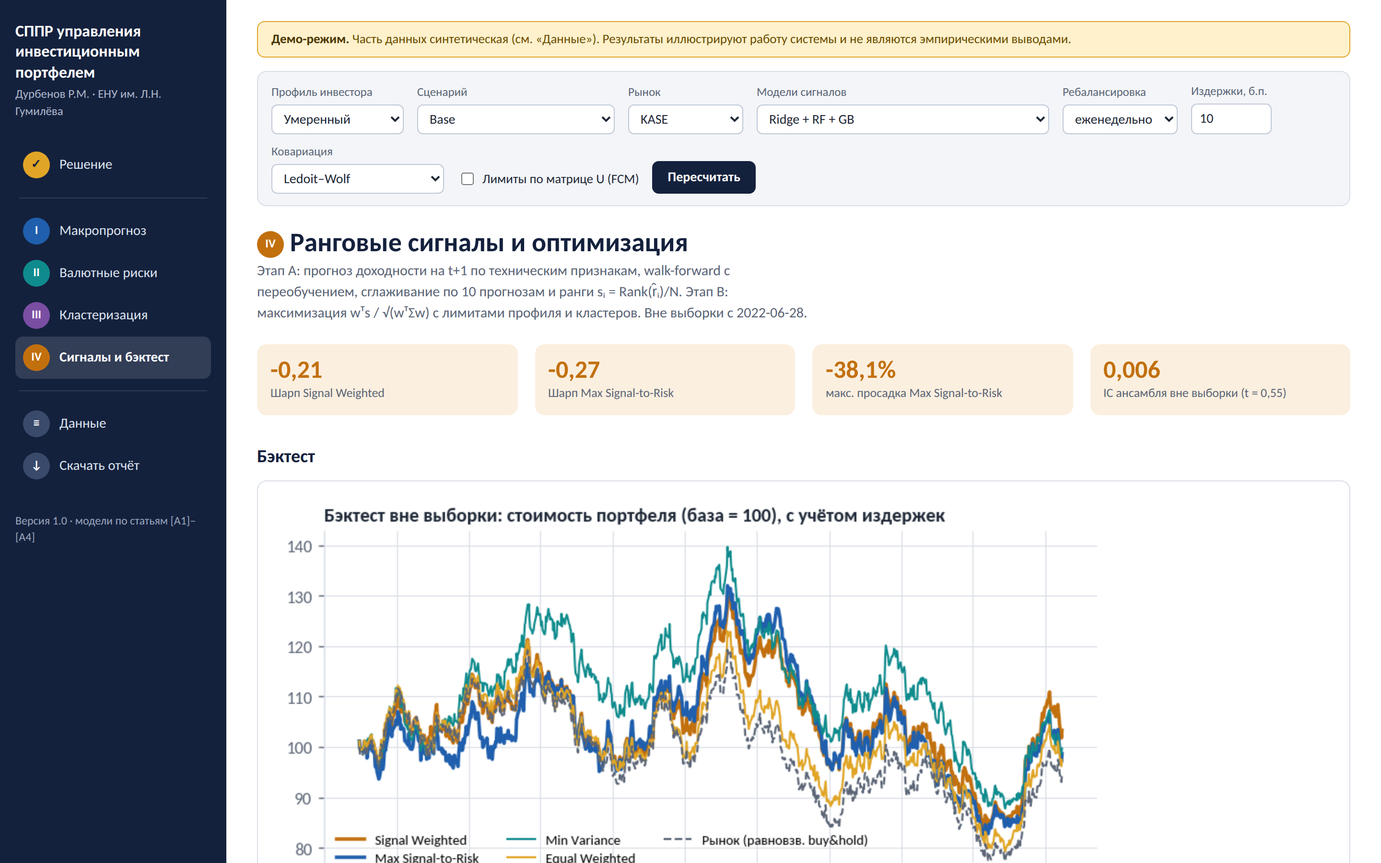
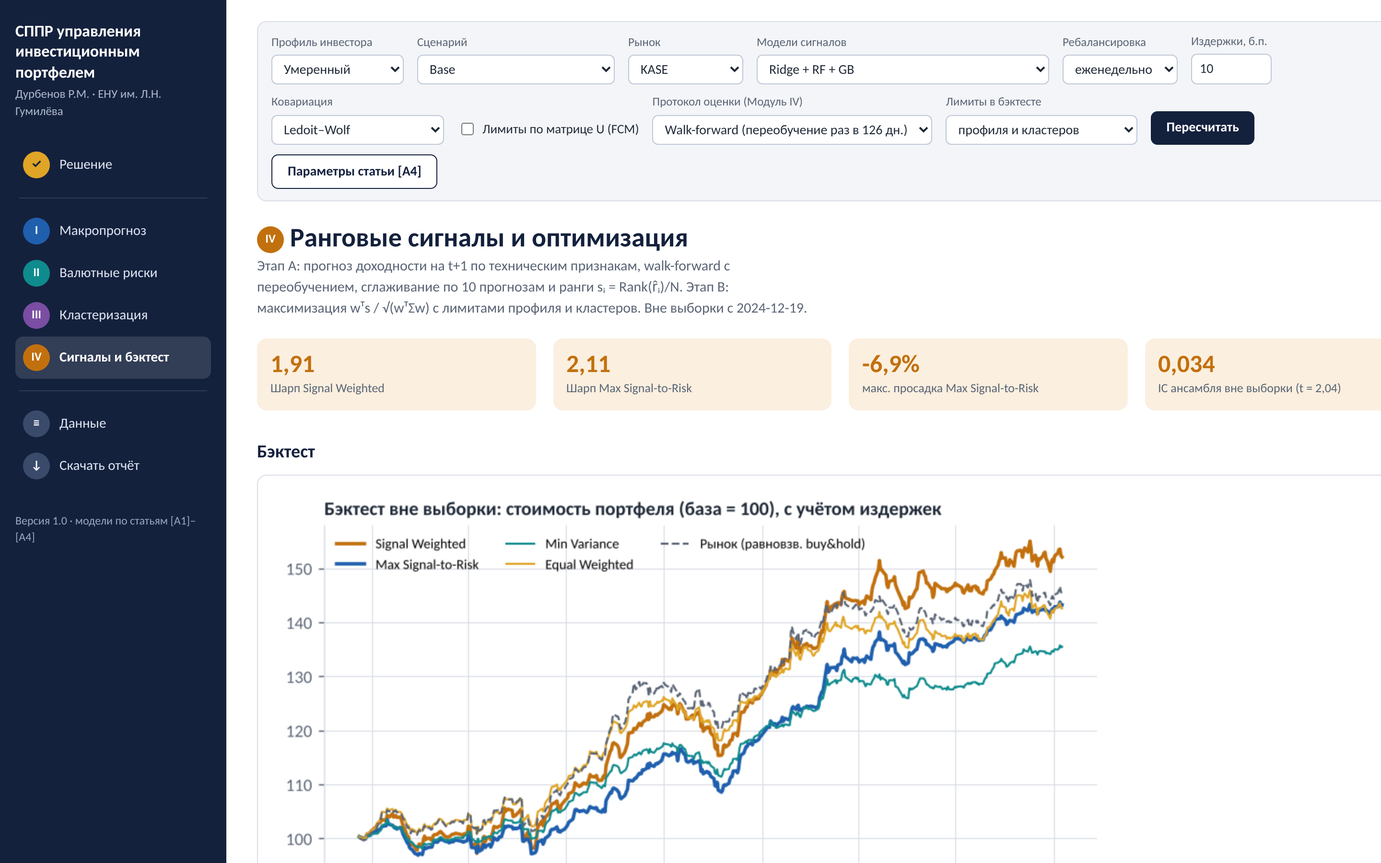
Stage 3, phase C: documentation and real-data screenshots
- docs/progress.md: stage 2 done (with data caveats), stage 3 done per
  article, updated requirement statuses, checklist, test count (57),
  CI diagnosis with the steps the author has to take; outdated
  statements removed.
- README: docs/reproduction.md, scripts/reproduce.py, docs/results/.
- Screenshots retaken on real data: KASE in docs/screenshots/, NSE in
  docs/screenshots/nse/; make_screenshots.py accepts --chromium to use
  an already installed browser.

diff --git a/scripts/make_screenshots.py b/scripts/make_screenshots.py
@@ -3,6 +3,7 @@
 1) start the app:   python -m webapp.app
 2) run:             python scripts/make_screenshots.py [--out docs/screenshots]
 Requires: pip install playwright && playwright install chromium
+(or pass --chromium /path/to/chrome to use an already installed browser)
 """
 import argparse
 from pathlib import Path
@@ -15,12 +16,13 @@ PAGES = {"decision": "/", "macro": "/macro", "fx": "/fx", "clusters": "/clusters
 ap = argparse.ArgumentParser()
 ap.add_argument("--base", default="http://127.0.0.1:8050")
 ap.add_argument("--out", default="docs/screenshots")
-ap.add_argument("--query", default="", help="e.g. profile=conservative&scenario=stress")
+ap.add_argument("--query", default="", help="e.g. profile=conservative&scenario=stress or universe=nse")
+ap.add_argument("--chromium", default=None, help="path to an installed Chromium instead of Playwright's own")
 a = ap.parse_args()
 out = Path(a.out)
 out.mkdir(parents=True, exist_ok=True)
 with sync_playwright() as p:
-    b = p.chromium.launch()
+    b = p.chromium.launch(executable_path=a.chromium)
     pg = b.new_page(viewport={"width": 1440, "height": 900}, device_scale_factor=2)
     for name, path in PAGES.items():
         pg.goto(f"{a.base}{path}?{a.query}", timeout=300_000)

diff --git a/docs/progress.md b/docs/progress.md
@@ -1,26 +1,26 @@
 # Состояние работ по ТЗ
 
-Сводка соответствия репозитория техническому заданию [`docs/techspecs.md`](techspecs.md) (версия от 08.10.2026). Обновлено 10.10.2026 (этап 4, часть 2).
+Сводка соответствия репозитория техническому заданию [`docs/techspecs.md`](techspecs.md) (версия от 08.10.2026). Обновлено 11.10.2026 (этап 3 — воспроизведение статей; доработки этапа 4).
 
-Обозначения: ✅ реализовано · 🟡 частично · ⬜ не начато · 🆕 сделано на текущем этапе (этап 4, часть 2).
+Обозначения: ✅ реализовано · 🟡 частично · ⬜ не начато · 🆕 сделано на текущем этапе (этап 3 и доработки этапа 4, 11.10.2026).
 
 ## Кратко
 
 - **Код всех четырёх модулей, модуль интеграции, веб-интерфейс, CLI и HTML-отчёт** есть (v1.0); почти все функциональные требования разделов 6–10 со статусом «Реализовано» в ТЗ подтверждаются кодом.
 - **Этап 1 (публикация и CI)** закрыт со стороны кода и влит в `main` (programmankz/phd-dss#1): CI, lock-файл, проверка CSV, установка на Windows/macOS. **Но GitHub Actions не запускается:** все прогоны завершаются `startup_failure` до старта задач (0 jobs), хотя файл workflow корректен (проверено `actionlint`). Причина — в настройках репозитория или аккаунта, а не в коде (см. «Риски»).
-- **Этап 2 (реальные данные) из облачной среды выполнить нельзя:** политика сети блокирует `www.imf.org`, `nationalbank.kz`, `query1.finance.yahoo.com` и `kase.kz` (HTTP 403 прокси). Загрузку нужно выполнить локально или расширить доступ в настройках среды.
-- **Поэтому сделана независимая от данных часть этапа 4:** коэффициенты правил интеграции перенесены в `config.py`, добавлен анализ их чувствительности и монотонности (раздел 10, пункт чек-листа), предупреждение о неудачной оптимизации (НФТ-06) и о послаблении нечётких лимитов, статистическая значимость ФТ-IV-13 (бутстреп Шарпа, Diebold–Mariano).
-- 🆕 **Этап 4, часть 2:** режим оценки «как в статье» (ФТ-IV-04: одно разбиение 80/20) и кнопка «Параметры статьи [A4]» (вместе с выборочной ковариацией, ежедневной ребалансировкой, без издержек и лимитов) — для пункта чек-листа «бэктест NSE в режиме статьи и walk-forward»; смена профиля или сценария теперь ≈ 0,2 с вместо ≈ 9 с (НФТ-03 выполнено). Тестов 42.
+- **Этап 2 (реальные данные) выполнен** локально и закоммичен в `data/`: ВВП (World Bank WDI, 214 стран, 1980–2024), курсы НБ РК (2000 – 10.2026), 20 акций NSE (2020 – 10.2026), 9 акций KASE (общая история с 12.2022). `warmup` для KASE и NSE показывает только «CSV: …». Оговорки: цены KASE без дивидендов; непроверенное падение KZTK на 41 % 22–23.05.2025; ВВП — World Bank, а не IMF WEO статьи [A1]; P/B и P/E для KASE пусты. Из облачной среды загрузка по-прежнему невозможна (сеть блокирует источники).
+- 🆕 **Этап 3 (воспроизведение статей) выполнен:** `python scripts/reproduce.py` пересчитывает все сравнения и пишет [`docs/reproduction.md`](reproduction.md) и `docs/results/*.csv`. [A2] воспроизведена (R² совпадают до второго знака); [A1] — результаты СППР ближе к рис. 9 и 11, чем к 97,9 % / AUC 0,997, а такую точность даёт утечка года t в скользящие признаки; [A3] — табл. 2 заполнена на KASE (с KZTK, без KZTK, без KMGZ); [A4] — строка табл. IV (21,61 % / 0,95) не воспроизведена (период теста и отсутствие предсказательной силы прогнозов). Расхождения — пп. 9–12 в `docs/methodology.md`.
+- 🆕 **Доработки этапа 4:** корпоративные события как данные (`data/corporate_actions.csv`), автотест НФТ-01, русский формат чисел в отчёте, консоли и на графиках, безрисковая ставка по набору данных (для KASE — заглушка до получения ставки НБ РК), проверка глубоких моделей TensorFlow (ФТ-IV-03). Тестов 57.
 
 ## Этапы работ (раздел 14)
 
 | Этап | Статус | Комментарий |
 |---|---|---|
 | 1. Публикация кода и CI | 🟡 | Прогоны GitHub Actions завершаются `startup_failure` (см. «Риски»). Код в GitHub; `.github/workflows/ci.yml`: ruff и pytest на Linux, Windows, macOS (Python 3.12, lock-файл) и Python 3.10 (диапазоны); `requirements-lock.txt`; README: установка на Windows/macOS |
-| 2. Реальные данные | 🟡 | Команды `fetch gdp/fx/nse` есть; проверка форматов и понятные сообщения об ошибках. Данные не загружены, котировки KASE не выгружены |
-| 3. Воспроизведение статей A1–A4 | ⬜ | Зависит от этапа 2 |
-| 4. Доработки по ТЗ | 🟡 | Сделано: ФТ-IV-13, коэффициенты интеграции в `config.py` и их анализ чувствительности, 🆕 режим статьи ФТ-IV-04, 🆕 НФТ-03. Осталось: пересчёт в KZT, индексы, PDF/Excel, проверка LSTM |
-| 5. Подготовка к защите | ⬜ | Скриншоты в `docs/screenshots/` сняты в демо-режиме |
+| 2. Реальные данные | ✅ | Данные в `data/` (см. «Кратко» и оговорки в [`docs/reproduction.md`](reproduction.md#оговорки-по-данным)); P/B и P/E для KASE не заполнены |
+| 3. Воспроизведение статей A1–A4 | ✅ 🆕 | [`docs/reproduction.md`](reproduction.md): [A2] воспроизведена; [A1] согласуется с рис. 9/11, текст не воспроизводится (нужен `world_gdp_data.csv`); [A3] — табл. 2 заполнена; [A4] — табл. IV не воспроизведена, причины объяснены. Вопросы к автору — в конце отчёта |
+| 4. Доработки по ТЗ | 🟡 | Сделано: ФТ-IV-13, коэффициенты интеграции и их чувствительность, режим статьи ФТ-IV-04, НФТ-03, 🆕 ФТ-IV-03 (TensorFlow), 🆕 НФТ-01 (автотест), 🆕 корпоративные события, 🆕 русский формат чисел, 🆕 ставка по набору данных. Осталось: пересчёт в KZT, индексы, PDF/Excel, значение ставки НБ РК |
+| 5. Подготовка к защите | 🟡 | 🆕 Скриншоты пересняты на реальных данных: KASE — `docs/screenshots/`, NSE — `docs/screenshots/nse/` |
 
 ## Функциональные требования
 
@@ -37,7 +37,7 @@
 
 | ID | Статус | Что осталось |
 |---|---|---|
-| ФТ-II-01…06, 08, 09 | ✅ | ФТ-II-05: выявление шоков 2009/2014/2015 проверить на реальных курсах |
+| ФТ-II-01…06, 08, 09 | ✅ | 🆕 ФТ-II-05 проверено на курсах НБ РК: найдены шоки 2009, 2014, 2015 (и 2020, 2022) |
 | ФТ-II-07 Ожидаемое ослабление | 🟡 | Форвардные курсы / ставки — «рассмотреть» |
 | ФТ-II-10 Пересчёт доходности в KZT | ⬜ | Не реализовано |
 
@@ -46,17 +46,17 @@
 | ID | Статус | Что осталось |
 |---|---|---|
 | ФТ-III-01…09 | ✅ | — |
-| ФТ-III-10 Табл. 2 на KASE | ⬜ | Нужны котировки KASE |
+| ФТ-III-10 Табл. 2 на KASE | ✅ 🆕 | [`docs/reproduction.md`](reproduction.md#a3-модуль-iii--кластеризация-бумаг-kase-табл-2); перенести в диссертацию и на слайд 22 |
 
 ### Модуль IV — сигналы и оптимизация [A4] (`dss/signals.py`, `dss/portfolio.py`)
 
 | ID | Статус | Что осталось |
 |---|---|---|
 | ФТ-IV-01, 02, 05–09, 11 | ✅ | — |
-| ФТ-IV-03 Прогнозные модели | 🟡 | RNN / LSTM / CNN-LSTM / LSTM-MLP не проверены с TensorFlow |
+| ФТ-IV-03 Прогнозные модели | ✅ 🆕 | TensorFlow 2.21: RNN, LSTM, CNN-LSTM, LSTM-MLP обучаются без ошибок (`python scripts/reproduce.py --with-dl`, `docs/results/a4_dl_check.csv`) |
 | ФТ-IV-04 Протокол оценки | ✅ 🆕 | `config.PROTOCOLS`: walk-forward (50% + переобучение раз в 126 дн.) или «как в статье» (одно разбиение 80/20); переключатель в панели настроек и `--protocol`; кнопка «Параметры статьи [A4]» (`config.PAPER_PRESET`) и `--no-caps` — бэктест без лимитов, 0 ≤ w ≤ 1 |
 | ФТ-IV-10 Стратегии | 🟡 | Загрузка индекса (Nifty 50, KASE Index) |
-| ФТ-IV-12 Показатели | 🟡 | Ставка НБ РК как безрисковая для KASE |
+| ФТ-IV-12 Показатели | 🟡 🆕 | `config.RISK_FREE_BY_UNIVERSE`: NSE — 5 %, KASE — заглушка (ставки НБ РК с источником в репозитории нет), временно 5 %, помечено в интерфейсе, отчёте и CLI. Нужно значение от автора |
 | ФТ-IV-13 Статистическая значимость | ✅ | `dss/significance.py`: 95% ДИ Шарпа и разницы с Equal Weighted (кольцевой блочный бутстреп, 2000 повторов, парные выборки), тест Diebold–Mariano против наивного прогноза; экран «Сигналы», отчёт, `dss.cli significance` |
 
 ### Модуль интеграции (`dss/integration.py`)
@@ -74,7 +74,7 @@
 |---|---|---|
 | 6 экранов, панель настроек в адресной строке | ✅ | |
 | Плашка «Демо-режим», цвета модулей, вёрстка до 760 px, видимый фокус | ✅ | Контраст WCAG AA формально не проверялся |
-| Числа в русском формате | 🟡 | Веб — да; HTML-отчёт и консоль выводят десятичную точку |
+| Числа в русском формате | ✅ 🆕 | Веб, HTML-отчёт, тексты шагов решения, подписи графиков и консоль — десятичная запятая (`dss/numfmt.py`); CSV-выгрузки — с точкой |
 | Ошибки текстом с причиной и действием | ✅ | Ошибки CSV — на каждом экране, на «Данных», в отчёте и CLI; непредвиденный сбой — страница с причиной и действием вместо «500» |
 | CLI: fetch, warmup, decide, report, serve, параметры | ✅ | `serve` без параметров (хост/порт через `HOST`/`PORT`) |
 | Экспорт отчёта в PDF и Excel | ⬜ | |
@@ -83,7 +83,7 @@
 
 | ID | Статус | Комментарий |
 |---|---|---|
-| НФТ-01 Воспроизводимость | 🟡 | seed 42; `requirements-lock.txt`. Автотеста «повторный запуск = те же числа до 4-го знака» нет |
+| НФТ-01 Воспроизводимость | ✅ 🆕 | seed 42; `requirements-lock.txt`; тест `test_two_cold_runs_give_identical_numbers` (два холодных запуска — те же веса, Шарпы и метки кластеров до 4-го знака); повторный `scripts/reproduce.py` даёт побайтно тот же результат |
 | НФТ-02 Без заглядывания вперёд | ✅ | Тесты `test_features_use_only_past_values`, `test_backtest_is_out_of_sample` |
 | НФТ-03 Производительность | ✅ 🆕 | Холодный расчёт на демо ≈ 30 с (≤ 2 мин); экран из кэша ≈ 1 с; 🆕 смена профиля или сценария ≈ 0,2 с: бэктест считается только при открытии экрана «Сигналы» или отчёта (там смена профиля ≈ 11 с, потому что бэктест зависит от лимитов профиля) |
 | НФТ-04 Кэш по отпечатку | ✅ | |
@@ -100,38 +100,44 @@
 |---|---|
 | 13 тестов научных инвариантов (`tests/test_core.py`) | ✅ |
 | Интеграционный тест полного конвейера на демо-наборе (≤ 60 с) | ✅ `test_system.py` (≈ 35 с) |
-| Тест загрузчиков CSV на ошибочные файлы | ✅ `test_loaders.py` (13 тестов) |
+| Тест загрузчиков CSV на ошибочные файлы | ✅ `test_loaders.py` (18 тестов, 🆕 включая `corporate_actions.csv`) |
 | Тест веб-экранов (код 200 для всех страниц) | ✅ |
-| Проверка глубоких моделей при установленном TensorFlow | ⬜ |
-| Правила интеграции, оптимизатор, тесты значимости (`test_analysis.py`) | ✅ 8 тестов |
+| Проверка глубоких моделей при установленном TensorFlow | ✅ 🆕 вручную (`--with-dl`); в CI TensorFlow не ставится |
+| Правила интеграции, оптимизатор, тесты значимости (`test_analysis.py`) | ✅ 9 тестов (🆕 ставка по набору данных) |
+| 🆕 Скрипт воспроизведения и формат чисел (`test_reproduce.py`) | ✅ 7 тестов (на демо-данных) |
 | CI: GitHub Actions — зависимости, тесты, ruff | 🟡 | Workflow есть и корректен, но прогоны завершаются `startup_failure` |
 
 ## Чек-лист приёмки
 
 - [x] Код отправлен в github.com/programmankz/phd-dss
-- [ ] Все автотесты проходят локально и в GitHub Actions — локально ✅ (42 теста, Python 3.10 и 3.13); в Actions — `startup_failure`, нужна проверка настроек
-- [ ] Загружены реальные данные IMF, НБ РК, KASE, NSE; плашка «Демо-режим» не отображается
-- [ ] Модуль II воспроизводит табл. 1 и R² [A2]
-- [ ] Модуль I на world_gdp_data.csv: метрики классификации и регрессии задокументированы
-- [ ] Модуль III: табл. 2 [A3] рассчитана на KASE
-- [ ] Модуль IV: бэктест NSE в режиме статьи и walk-forward; сравнение с табл. IV [A4]
-- [ ] Скриншоты пересняты на реальных данных
-- [ ] README, docs/methodology.md и руководство пользователя актуальны — README и methodology обновляются; отдельного руководства пользователя нет
+- [ ] Все автотесты проходят локально и в GitHub Actions — локально ✅ (57 тестов, Python 3.13); в Actions — `startup_failure`, нужны действия автора (см. «Риски», п. 1)
+- [x] Загружены реальные данные (World Bank вместо IMF, НБ РК, KASE, NSE); плашка «Демо-режим» не отображается
+- [x] Модуль II воспроизводит R² [A2] (табл. 1 рассчитана; опубликованных значений для сравнения в репозитории нет)
+- [ ] Модуль I на world_gdp_data.csv: метрики классификации и регрессии задокументированы — 🟡 сделано на данных World Bank; файл статьи нужен от автора
+- [x] Модуль III: табл. 2 [A3] рассчитана на KASE (перенос в диссертацию и на слайд 22 — за автором)
+- [x] Модуль IV: бэктест NSE в режиме статьи и walk-forward; сравнение с табл. IV [A4]
+- [x] Скриншоты пересняты на реальных данных (KASE и NSE)
+- [x] README, docs/methodology.md и руководство пользователя актуальны — руководство: [`docs/SETUP.md`](SETUP.md)
 - [ ] Анализ чувствительности параметров модуля интеграции описан — расчёт в СППР есть (`dss.cli sensitivity`); перенести в текст диссертации
 
 ## Риски
 
-1. **CI не работает** (`startup_failure`, 0 задач). Нужно открыть любой прогон на вкладке Actions: GitHub пишет причину над списком задач. Частые причины: Actions отключены или ограничены «только локальными действиями» (Settings → Actions → General — workflow использует `actions/checkout` и `actions/setup-python`), проблема с оплатой или лимитом расходов аккаунта.
-2. **Реальных данных нет**, все результаты — демо. Большая часть чек-листа приёмки ждёт этапа 2.
+1. **CI не работает** (`startup_failure`, 0 задач). 🆕 Проверено через API GitHub (11.10.2026): все 15 прогонов привязаны не к workflow «CI» (`.github/workflows/ci.yml`, у него 0 прогонов), а к служебной записи `BuildFailed` — GitHub отклоняет запуск ещё до чтения файла. Сам файл корректен (YAML разбирается, `actionlint` ранее без замечаний), поэтому `ci.yml` не менялся. Репозиторий **приватный**: минуты Actions сверх бесплатной квоты платные, а задачи на macOS и Windows расходуют квоту в 10 и 2 раза быстрее. Что сделать автору:
+   1. Открыть https://github.com/programmankz/phd-dss/actions → любой прогон: причина написана над пустым списком задач.
+   2. https://github.com/settings/billing — нет ли просроченного платежа или блокировки аккаунта; бюджет (лимит расходов) для Actions не должен быть 0 $, если бесплатная квота исчерпана.
+   3. Settings репозитория → Actions → General: «Allow all actions and reusable workflows» (или явно разрешить `actions/checkout` и `actions/setup-python`).
+   4. Если квота исчерпана и платить не планируется — сделать репозиторий публичным (для публичных репозиториев минуты бесплатны) или временно убрать macOS и Windows из матрицы.
+   После исправления: Actions → CI → «Run workflow» (ручной запуск предусмотрен в `ci.yml`).
+2. **Открытые вопросы по данным и статьям** — список «Вопросы к автору» в конце [`docs/reproduction.md`](reproduction.md): значения из статей, `world_gdp_data.csv`, событие KZTK, ставка НБ РК, P/B и P/E для KASE.
 3. **Экран «Сигналы» после смены профиля** открывается ≈ 11 с: бэктест с новыми лимитами считается заново (экран «Решение» — ≈ 0,2 с).
 4. **scikit-learn 1.11** удалит `SVC(probability=True)`, который использует Модуль I; `requirements.txt` не ограничивает версию сверху (lock-файл защищает).
 5. **Монотонность правил интеграции держится на порядке множителей** сценариев и фаз; при перенастройке его нужно сохранять (см. экран «Решение» → «Чувствительность правил интеграции»).
 
 ## Предлагаемый следующий шаг
 
-1. Выяснить причину `startup_failure` по странице прогона в Actions.
-2. Этап 2 локально: `python -m dss.cli fetch gdp`, `fetch nse`, `fetch fx` (НБ РК — долго, с докачкой), выгрузка котировок KASE; затем `python -m dss.cli warmup` — проверка CSV сразу укажет на ошибки формата.
-3. Без данных можно продолжить этап 4: экспорт таблиц в Excel и PDF-отчёт; загрузка индексов (Nifty 50, KASE Index) в `fetch`; проверка глубоких моделей с TensorFlow (нужен `pip install tensorflow`, в облачной среде можно проверить).
+1. Ответить на «Вопросы к автору» из [`docs/reproduction.md`](reproduction.md) и перезапустить `python scripts/reproduce.py` (после добавления `world_gdp_data.csv`, ставки НБ РК, P/B и P/E, события KZTK в `data/corporate_actions.csv`).
+2. Исправить запуск CI по шагам из «Рисков», п. 1.
+3. Перенести табл. 2 [A3] и результаты воспроизведения в текст диссертации и на слайды; дальше — этап 4: экспорт в Excel и PDF, индексы (Nifty 50, KASE Index), пересчёт в KZT.
 
 ## Допущения
 
@@ -153,3 +159,6 @@
 14. **Режим «как в статье»** меняет только протокол оценки (одно разбиение 80/20, без переобучения). Остальные параметры статьи (выборочная ковариация, ежедневная ребалансировка, без издержек, только 0 ≤ w ≤ 1) — отдельные настройки, которые кнопка «Параметры статьи [A4]» выставляет все сразу: так можно отделить влияние протокола от влияния остальных параметров. Лимиты профиля отключаются только в бэктесте; рекомендация на экране «Решение» всегда соблюдает лимиты профиля.
 15. **ФТ-II-10 (пересчёт в KZT) отложен.** Ранговые сигналы кросс-секционные: у всех бумаг NSE одна валюта, общий множитель (1 + ослабление) не меняет ни ранги, ни веса, только уровень доходности в отчётах. А корректный дневной пересчёт требует курса INR/KZT, которого нет среди курсов НБ РК, загружаемых системой. Пересчёт стоит делать после загрузки этого курса (этап 2).
 
+16. **Корпоративные события.** Правило для TMPV.NS осталось встроенным (применяется при `fetch nse`, потому что Yahoo отдаёт нескорректированный ряд), а `data/corporate_actions.csv` применяется к любому набору при каждой загрузке. Метод `ratio` идемпотентен, поэтому повтор правила в файле безвреден. Ошибочный файл событий обрабатывается как ошибочный файл цен: причина показывается, для набора берутся демо-данные. Строки для KZTK нет — событие не проверено.
+17. **Безрисковая ставка KASE.** Ставки НБ РК с источником в репозитории нет, поэтому в `config.RISK_FREE_BY_UNIVERSE` для KASE стоит заглушка `None`: временно используется 5 %, а происхождение ставки показывается рядом с ней в интерфейсе, отчёте и CLI.
+18. **Воспроизведение [A4] на обрезанных данных.** `pipeline.run` не умеет обрезать цены по дате, поэтому `scripts/reproduce.py` вызывает функции модулей напрямую; логика лимитов бэктеста вынесена в `pipeline.backtest_limits` и общая для обоих путей, а тест `test_module4_helper_matches_the_pipeline` проверяет, что результаты совпадают.
